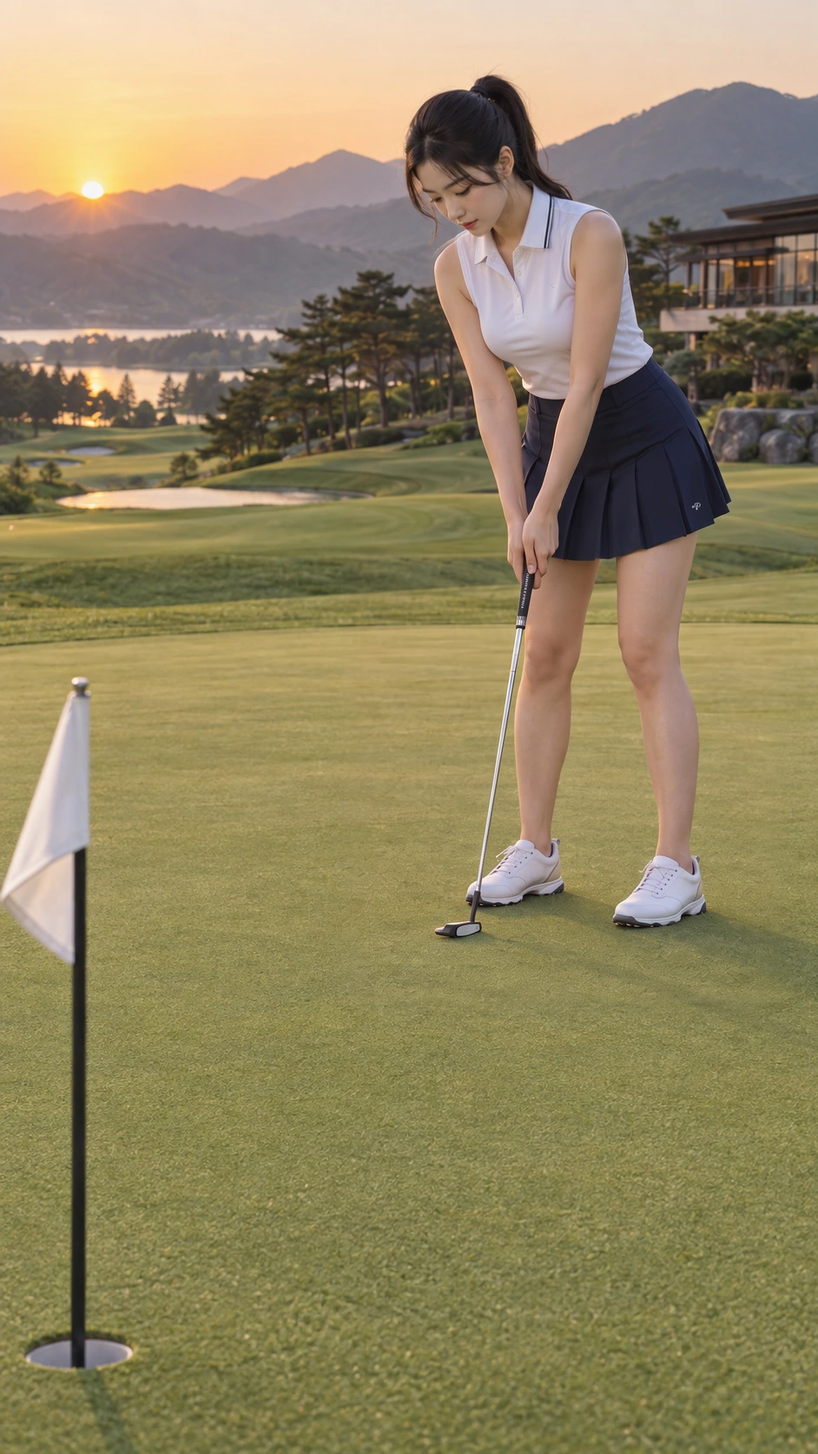
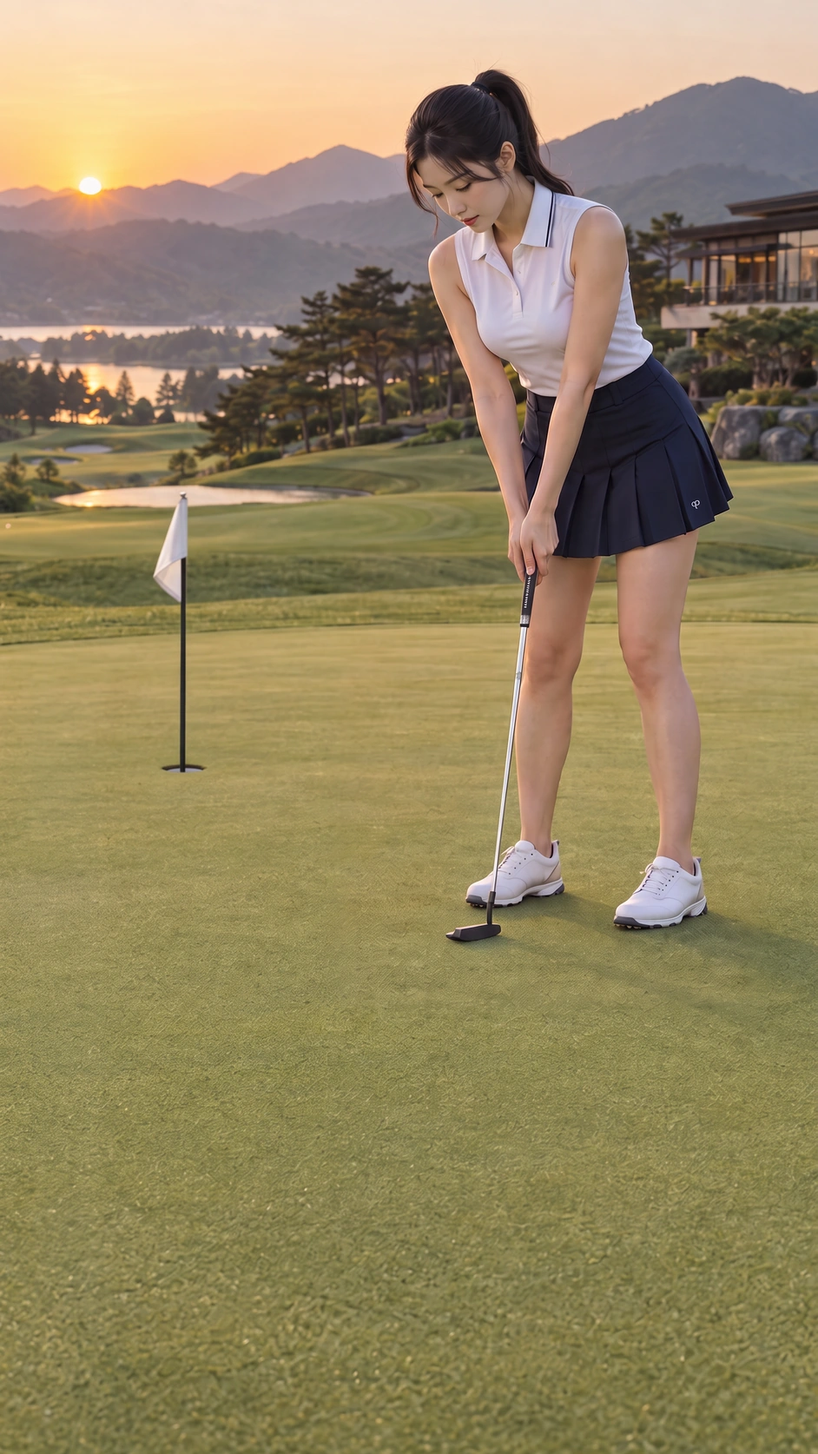
설아 퍼팅 화면에서 공·홀컵을 빼고 스트로크 동작만 남김
퍼터 조준이 이미지와 맞지 않는다는 지적을 받았다. 확인 결과 생성 모델이 이
구도에서 퍼터 헤드를 항상 타깃 라인과 나란히 눕혀 그린다. 즉 페이스가 홀이
아니라 카메라를 본다. 헤드를 90도 돌리라고 명시해도 어드레스·백스트로크·
임팩트·팔로스루 어느 프레임에서도 바뀌지 않았다.

그 상태로 공을 홀까지 굴리면 조준과 궤적이 서로 어긋나 보인다. 사장 결정에
따라 조준을 주장하는 요소만 뺐다.

- 공, 홀컵 링, 임팩트 링 엘리먼트와 관련 CSS·키프레임을 전부 제거했다.
- 게임 종료는 기존 5.2초 타이머가 그대로 담당한다(공 animationend 의존 제거).
- 스트로크 4프레임 연출과 단일 원본 합성 방식은 그대로 유지한다.
- 다시 살아나지 않도록 회귀 테스트를 넣고, 뺀 이유를 코드 주석에 남겼다.
- 모바일 판 교체: 기존 모바일 이미지는 홀컵이 그녀보다 카메라 쪽 전경에 있어
  퍼팅으로 도달할 수 없는 기하였다. 홀을 중거리로 옮긴 판으로 다시 만들고
  스트로크 3프레임도 새 판 기준으로 다시 합성했다.

검증: 테스트 246/246, npm run check / verify / build, git diff --check 통과.
데스크톱 1440x900 / 모바일 390x844 실제 렌더에서 스트로크 8개 시점을 캡처해
프레임 일관성과 공·홀컵 미표시를 확인했다.

Claude-Session: https://claude.ai/code/session_01VnX5TFHJLBetQ4Zg5eutzr

diff --git a/frontend/components/persona/SeolaGolfEntry.tsx b/frontend/components/persona/SeolaGolfEntry.tsx
@@ -1,6 +1,5 @@
 import React, { useEffect, useState } from 'react';
 import type { PersonaEntryGuide } from '../PersonaEntrySheet';
-
 interface Props { guide: PersonaEntryGuide; onClose: () => void; onStart: (featureKey?: string) => void; onFeature: (featureKey: string) => void; onInvite: () => void; }
 type SampleKey = 'driver' | 'iron' | 'tempo';
 type PuttPhase = 'ready' | 'playing' | 'success';
@@ -10,17 +9,12 @@ const SAMPLES = {
     tempo: { title: '서두르지 않는 나만의 템포', sub: '백스윙과 전환의 리듬을 맞추는 노트', values: [80, 75, 62, 73, 79], coach: '전환에서 바로 힘을 쓰지 말고 하나를 세고 내려오는 리듬을 만들어 보세요.' },
 } as const;
 const LABELS = ['어드레스', '백스윙', '다운스윙', '임팩트', '피니시'];
-
 const CSS = `
 .sg-root{--night:#071821;--green:#1f5243;--mint:#91c9b0;--gold:#e0bd6d;--paper:#f5f1e8;--wine:#b65f62;--ink:#132b31;position:fixed;inset:0;z-index:85;overflow-y:auto;overflow-x:hidden;background:var(--night);color:#fff;font-family:Pretendard,"Apple SD Gothic Neo","Noto Sans KR",sans-serif}.sg-root *{box-sizing:border-box}.sg-root button{font:inherit;cursor:pointer;touch-action:manipulation}.sg-scene{position:absolute;inset:0;width:100%;height:100%}.sg-scene img{width:100%;height:100%;display:block;object-fit:cover}.sg-hero{min-height:min(900px,100svh);position:relative;display:flex;align-items:flex-end;overflow:hidden;background:#06141d}.sg-hero:after{content:"";position:absolute;inset:0;background:linear-gradient(90deg,rgba(4,17,24,.88),rgba(4,17,24,.28) 48%,transparent 72%),linear-gradient(0deg,rgba(4,17,24,.86),transparent 50%);pointer-events:none}.sg-top{position:absolute;z-index:4;top:0;left:0;right:0;display:flex;align-items:center;justify-content:space-between;padding:20px clamp(20px,5vw,72px)}.sg-brand{display:flex;align-items:center;gap:10px;font:15px Georgia,"Noto Serif KR",serif;text-shadow:0 2px 10px #000}.sg-mark{width:31px;height:31px;border:1px solid #ffffffaa;border-radius:50%;position:relative}.sg-mark:after{content:'•••';position:absolute;inset:2px 0 0;text-align:center;color:var(--gold);font-size:9px;writing-mode:vertical-rl}.sg-close{width:44px;height:44px;border-radius:50%;border:1px solid #ffffff50;background:#0311189c;color:#fff;font-size:20px}.sg-copy{position:relative;z-index:3;margin:0 0 clamp(30px,5vh,54px) clamp(20px,6vw,86px);width:min(650px,calc(100% - 40px))}.sg-eyebrow,.sg-kicker{font-size:11px;font-weight:800;letter-spacing:.14em}.sg-eyebrow{display:flex;align-items:center;gap:12px;color:#edf4f1}.sg-eyebrow:before{content:'';width:38px;border-top:1px solid var(--gold)}.sg-copy h1{font:500 clamp(39px,5.3vw,68px)/1.04 Georgia,"Noto Serif KR",serif;letter-spacing:-.04em;margin:12px 0}.sg-gold{color:var(--gold)}.sg-lead{max-width:45ch;color:#e1e9e6;font-size:clamp(14px,1.5vw,18px);line-height:1.65;margin:0}.sg-lead strong{color:#fff}.sg-actions{display:flex;gap:9px;flex-wrap:wrap;margin-top:19px}.sg-primary,.sg-secondary{min-height:48px;padding:0 19px;border-radius:3px;font-weight:800}.sg-primary{border:0;background:var(--paper);color:var(--ink)}.sg-secondary{border:1px solid #ffffff70;background:#0311189c;color:#fff}.sg-note{margin-top:10px;color:#bfceca;font-size:10px}
-.sg-game{position:fixed;inset:0;z-index:10;display:grid;place-items:center;padding:20px;background:rgba(1,9,13,.88);backdrop-filter:blur(12px);animation:sg-game-in .28s ease-out}.sg-game-shell{width:min(1180px,100%);border:1px solid #ffffff35;border-radius:14px;overflow:hidden;background:#06141d;box-shadow:0 34px 100px #000b}.sg-game-hud{height:54px;display:flex;align-items:center;justify-content:space-between;padding:0 18px;color:#dce8e4}.sg-game-hud strong{font:600 15px Georgia,"Noto Serif KR",serif}.sg-game-hud span{color:var(--gold);font-size:11px;font-weight:800;letter-spacing:.14em}.sg-game-stage{position:relative;width:100%;aspect-ratio:1672/936;overflow:hidden}.sg-game-stage .sg-scene{position:absolute}.sg-game-stage:after{content:"";position:absolute;inset:0;box-shadow:inset 0 0 80px #00101880;pointer-events:none}.sg-game-ball{position:absolute;z-index:3;left:59.2%;top:81.8%;width:13px;height:13px;border-radius:50%;background:radial-gradient(circle at 35% 28%,#fff 0 30%,#d9ddda 65%,#828b86);box-shadow:0 3px 8px #0008;animation:sg-game-roll 4.8s cubic-bezier(.22,.58,.28,1) forwards}.sg-game-cup{position:absolute;z-index:3;left:28.1%;top:84.4%;width:26px;height:9px;border:2px solid rgba(255,247,202,.9);border-radius:50%;transform:translate(-50%,-50%);opacity:0;animation:sg-cup-ring 4.8s ease-out forwards}.sg-game-footer{height:58px;display:flex;align-items:center;justify-content:space-between;padding:0 18px;color:#dce8e4;font-size:12px}.sg-game-meter{display:flex;align-items:center;gap:9px}.sg-game-meter i{display:block;width:120px;height:4px;background:linear-gradient(90deg,var(--mint) 70%,#ffffff28 70%);border-radius:3px}.sg-skip{border:1px solid #ffffff65;background:transparent;color:#fff;border-radius:20px;padding:8px 14px;font-size:11px}.sg-sr{position:absolute;width:1px;height:1px;overflow:hidden;clip:rect(0,0,0,0)}@keyframes sg-game-in{from{opacity:0;transform:scale(.985)}to{opacity:1;transform:scale(1)}}@keyframes sg-game-roll{0%,18%{left:59.2%;top:81.8%;transform:rotate(0);opacity:1}80%{left:28.1%;top:84.4%;transform:rotate(-1080deg);opacity:1}83%,100%{left:28.1%;top:84.4%;transform:rotate(-1080deg) scale(.08);opacity:0}}@keyframes sg-cup-ring{0%,78%{opacity:0;transform:translate(-50%,-50%) scale(.4)}82%{opacity:1;transform:translate(-50%,-50%) scale(1)}100%{opacity:0;transform:translate(-50%,-50%) scale(2)}}
+.sg-game{position:fixed;inset:0;z-index:10;display:grid;place-items:center;padding:20px;background:rgba(1,9,13,.88);backdrop-filter:blur(12px);animation:sg-game-in .28s ease-out}.sg-game-shell{width:min(1180px,100%);border:1px solid #ffffff35;border-radius:14px;overflow:hidden;background:#06141d;box-shadow:0 34px 100px #000b}.sg-game-hud{height:54px;display:flex;align-items:center;justify-content:space-between;padding:0 18px;color:#dce8e4}.sg-game-hud strong{font:600 15px Georgia,"Noto Serif KR",serif}.sg-game-hud span{color:var(--gold);font-size:11px;font-weight:800;letter-spacing:.14em}.sg-game-stage{position:relative;width:100%;aspect-ratio:1672/936;overflow:hidden}.sg-game-stage .sg-scene{position:absolute}.sg-game-stage:after{content:"";position:absolute;inset:0;box-shadow:inset 0 0 80px #00101880;pointer-events:none}.sg-game-footer{height:58px;display:flex;align-items:center;justify-content:space-between;padding:0 18px;color:#dce8e4;font-size:12px}.sg-game-meter{display:flex;align-items:center;gap:9px}.sg-game-meter i{display:block;width:120px;height:4px;background:linear-gradient(90deg,var(--mint) 70%,#ffffff28 70%);border-radius:3px}.sg-skip{border:1px solid #ffffff65;background:transparent;color:#fff;border-radius:20px;padding:8px 14px;font-size:11px}.sg-sr{position:absolute;width:1px;height:1px;overflow:hidden;clip:rect(0,0,0,0)}@keyframes sg-game-in{from{opacity:0;transform:scale(.985)}to{opacity:1;transform:scale(1)}}
 .sg-choose{background:var(--paper);color:var(--ink);padding:clamp(64px,9vw,110px) clamp(20px,7vw,104px)}.sg-head{max-width:1180px;margin:auto;display:grid;grid-template-columns:.85fr 1.15fr;gap:52px;align-items:end}.sg-kicker{color:#477060}.sg-head h2,.sg-desk-copy h2{font:500 clamp(34px,4.5vw,56px)/1.2 Georgia,"Noto Serif KR",serif;margin:13px 0 0}.sg-head p,.sg-desk-copy p{color:#586a68;line-height:1.8;font-size:14px}.sg-paths{max-width:1180px;margin:54px auto 0;display:grid;grid-template-columns:1fr 1fr;border-top:1px solid #c9c6ba}.sg-path{padding:34px 38px 28px 0}.sg-path+.sg-path{padding-left:38px;border-left:1px solid #d5d1c5}.sg-num{font:italic 21px Georgia,serif;color:var(--wine)}.sg-path h3{font:600 clamp(24px,3vw,34px) Georgia,"Noto Serif KR",serif;margin:34px 0 12px}.sg-path p{font-size:13px;line-height:1.75;color:#60706e}.sg-chips{display:flex;gap:8px;flex-wrap:wrap;margin:22px 0}.sg-chip{font-size:10px;font-weight:800;padding:7px 9px;border:1px solid #b8c8c0;color:#315c4d;border-radius:20px}.sg-path button{border:0;background:var(--green);color:#fff;padding:13px 17px;border-radius:3px;font-weight:800}.sg-desk{background:#102c2d;padding:clamp(64px,9vw,108px) clamp(20px,7vw,104px)}.sg-desk-inner{max-width:1180px;margin:auto;display:grid;grid-template-columns:.78fr 1.22fr;gap:clamp(40px,8vw,100px)}.sg-desk-copy{position:sticky;top:34px}.sg-desk-copy .sg-kicker{color:var(--mint)}.sg-desk-copy p{color:#b7c9c4}.sg-toggles{display:flex;gap:8px;margin-top:24px}.sg-toggle{border:1px solid #ffffff3d;background:transparent;color:#dce8e4;padding:10px 13px;border-radius:3px}.sg-toggle[aria-pressed=true]{background:var(--mint);border-color:var(--mint);color:#0a2727;font-weight:800}.sg-report{background:var(--paper);color:var(--ink);border-radius:5px;padding:clamp(26px,5vw,52px);box-shadow:0 28px 80px #0005;min-height:520px}.sg-sample{font-size:10px;font-weight:800;color:var(--wine)}.sg-report h3{font:500 clamp(27px,4vw,42px)/1.25 Georgia,"Noto Serif KR",serif;margin:24px 0 6px}.sg-sub{font-size:12px;color:#6d7a77;margin-bottom:30px}.sg-metrics{border-top:1px solid #c9c9bf}.sg-metric{display:grid;grid-template-columns:50px 1fr 120px;gap:15px;align-items:center;padding:17px 0;border-bottom:1px solid #d8d6cc}.sg-metric b{font:italic 17px Georgia,serif;color:var(--wine)}.sg-bar{height:4px;background:#d8d9d1}.sg-bar i{display:block;height:100%;background:var(--green)}.sg-coach{margin-top:28px;padding:19px;border-left:3px solid var(--gold);background:#ebe8df;color:#536461;font-size:12px;line-height:1.75}.sg-disclosure{margin-top:17px;color:#7c8783;font-size:10px;line-height:1.6}.sg-root :focus-visible{outline:3px solid #f3d480;outline-offset:3px}
-@media(max-width:760px){.sg-hero{min-height:auto;padding-top:72svh;display:block;background:#071821}.sg-hero .sg-scene{height:72svh}.sg-hero:after{height:72svh;background:linear-gradient(0deg,#071821,transparent 36%)}.sg-top{padding:16px}.sg-brand span:last-child{display:none}.sg-copy{margin:0;padding:18px 20px 30px;width:auto;background:#071821}.sg-copy h1{font-size:39px}.sg-lead{font-size:14px}.sg-actions>*{flex:1 1 100%}.sg-game{padding:10px}.sg-game-shell{width:auto;max-width:100%;border-radius:11px}.sg-game-hud{height:48px}.sg-game-stage{height:min(72svh,680px);width:auto;aspect-ratio:942/1674}.sg-game-ball{left:52.4%;top:70.4%;animation-name:sg-game-roll-mobile}.sg-game-cup{left:11.1%;top:73.5%}.sg-game-footer{height:54px}.sg-game-meter i{width:72px}@keyframes sg-game-roll-mobile{0%,18%{left:52.4%;top:70.4%;transform:rotate(0);opacity:1}80%{left:11.1%;top:73.5%;transform:rotate(-1080deg);opacity:1}83%,100%{left:11.1%;top:73.5%;transform:rotate(-1080deg) scale(.08);opacity:0}}.sg-head,.sg-desk-inner{grid-template-columns:1fr}.sg-paths{grid-template-columns:1fr}.sg-path,.sg-path+.sg-path{padding:28px 0;border-left:0;border-bottom:1px solid #d5d1c5}.sg-path:last-child{border-bottom:0}.sg-path h3{margin:18px 0 10px}.sg-desk-copy{position:static}.sg-report{min-height:0}.sg-metric{grid-template-columns:42px 1fr}.sg-bar{grid-column:2;width:100%}}
-@media(prefers-reduced-motion:reduce){.sg-game-ball,.sg-game-cup{animation-duration:.01ms}.sg-root{scroll-behavior:auto}}
-.sg-game-ball{margin:-6.5px 0 0 -6.5px}
-.sg-impact-scene{opacity:0;animation:sg-impact-frame 4.8s steps(1,end) forwards}.sg-impact-pop{position:absolute;z-index:4;left:59.2%;top:81.8%;width:38px;height:38px;border:2px solid #fff3b0;border-radius:50%;transform:translate(-50%,-50%) scale(.25);opacity:0;animation:sg-impact-pop 4.8s ease-out forwards}@keyframes sg-impact-frame{0%,15%{opacity:0}16%,100%{opacity:1}}@keyframes sg-impact-pop{0%,15%{opacity:0;transform:translate(-50%,-50%) scale(.25)}17%{opacity:.95;transform:translate(-50%,-50%) scale(.55)}25%,100%{opacity:0;transform:translate(-50%,-50%) scale(1.5)}}@media(max-width:760px){.sg-impact-pop{left:52.4%;top:70.4%}}@media(prefers-reduced-motion:reduce){.sg-impact-scene,.sg-impact-pop{animation-duration:.01ms}}
+@media(max-width:760px){.sg-hero{min-height:auto;padding-top:72svh;display:block;background:#071821}.sg-hero .sg-scene{height:72svh}.sg-hero:after{height:72svh;background:linear-gradient(0deg,#071821,transparent 36%)}.sg-top{padding:16px}.sg-brand span:last-child{display:none}.sg-copy{margin:0;padding:18px 20px 30px;width:auto;background:#071821}.sg-copy h1{font-size:39px}.sg-lead{font-size:14px}.sg-actions>*{flex:1 1 100%}.sg-game{padding:10px}.sg-game-shell{width:auto;max-width:100%;border-radius:11px}.sg-game-hud{height:48px}.sg-game-stage{height:min(72svh,680px);width:auto;aspect-ratio:942/1674}.sg-game-footer{height:54px}.sg-game-meter i{width:72px}.sg-head,.sg-desk-inner{grid-template-columns:1fr}.sg-paths{grid-template-columns:1fr}.sg-path,.sg-path+.sg-path{padding:28px 0;border-left:0;border-bottom:1px solid #d5d1c5}.sg-path:last-child{border-bottom:0}.sg-path h3{margin:18px 0 10px}.sg-desk-copy{position:static}.sg-report{min-height:0}.sg-metric{grid-template-columns:42px 1fr}.sg-bar{grid-column:2;width:100%}}
 `;
-
 /*
  * v6 퍼팅 스트로크
  * 프레임 4장은 전부 같은 어드레스 원본 한 장을 판으로 쓰고, 팔·손·어깨·퍼터 영역만
@@ -29,26 +23,25 @@ const CSS = `
  *
  * 4.8초 한 주기 안의 스트로크 타임라인(리디아고 퍼팅 기본기 기준 — 머리 고정, 손목 고정,
  * 어깨 진자, 손이 헤드보다 앞):
- *   0.00~0.43s 어드레스 / 0.46~0.99s 백스트로크(천천히) / 1.02s 임팩트·공 출발
+ *   0.00~0.43s 어드레스 / 0.46~0.99s 백스트로크(천천히) / 1.02s 임팩트
  *   1.06~1.18s 임팩트 직후 / 1.21~1.83s 낮은 팔로스루 / 1.87~2.10s 되돌아오는 길
  *   2.13s~ 어드레스 복귀
  * ★레이어 순서는 어드레스 < back < thru < follow. 위 레이어가 사라지기 전에 아래
- *   레이어가 먼저 불투명해지도록 짜서, 교차구간에 그림자가 세 겹으로 겹치지 않는다.
- * 공 출발점과 홀컵 좌표는 두 이미지에서 실제 픽셀을 재서 넣은 값이다.
+ *   레이어가 먼저 불투명해지도록 짜서, 교차구간에 상이 세 겹으로 겹치지 않는다.
+ *
+ * ★공과 홀컵 마커는 그리지 않는다(2026-09-18 사장 지시). 생성 모델이 이 구도에서
+ *   퍼터 헤드를 항상 타깃 라인과 나란히 눕혀 그려 페이스가 홀이 아니라 카메라를 본다.
+ *   그 상태로 공을 홀까지 굴리면 조준과 궤적이 어긋나 보이므로, 조준을 주장하지 않는
+ *   스트로크 동작만 남겼다. 퍼터가 제대로 조준된 소재를 확보하기 전에는 되살리지 말 것.
  */
 const MOTION_CSS = `
-.sg-game-ball{left:64.1%;top:86%;width:1%;height:auto;aspect-ratio:1;margin:0;transform:translate(-50%,-50%);animation-name:sg-roll-v6}.sg-game-cup{left:9.4%;top:68.4%;width:3.4%;height:.9%}.sg-impact-pop{left:64.1%;top:86%;width:1.8%;height:auto;aspect-ratio:1;animation-name:sg-impact-v6}.sg-stroke{position:absolute;inset:0;opacity:0;animation-duration:4.8s;animation-timing-function:linear;animation-fill-mode:forwards}.sg-stroke-back{animation-name:sg-stroke-back}.sg-stroke-thru{animation-name:sg-stroke-thru}.sg-stroke-follow{animation-name:sg-stroke-follow}
+.sg-stroke{position:absolute;inset:0;opacity:0;animation-duration:4.8s;animation-timing-function:linear;animation-fill-mode:forwards}.sg-stroke-back{animation-name:sg-stroke-back}.sg-stroke-thru{animation-name:sg-stroke-thru}.sg-stroke-follow{animation-name:sg-stroke-follow}
 @keyframes sg-stroke-back{0%,8.9%{opacity:0}9.6%,20.6%{opacity:1}21.3%,100%{opacity:0}}
 @keyframes sg-stroke-thru{0%,21.3%{opacity:0}22%,25.3%{opacity:1}26%,37.2%{opacity:0}37.9%,43.7%{opacity:1}44.4%,100%{opacity:0}}
 @keyframes sg-stroke-follow{0%,24.6%{opacity:0}25.3%,38.2%{opacity:1}38.9%,100%{opacity:0}}
-@keyframes sg-roll-v6{0%,21.3%{left:64.1%;top:86%;transform:translate(-50%,-50%) rotate(0);opacity:1}80%{left:9.4%;top:68.4%;transform:translate(-50%,-50%) rotate(-1080deg);opacity:1}83%,100%{left:9.4%;top:68.4%;transform:translate(-50%,-50%) rotate(-1080deg) scale(.08);opacity:0}}
-@keyframes sg-impact-v6{0%,21.3%{opacity:0;transform:translate(-50%,-50%) scale(.25)}22.5%{opacity:.85;transform:translate(-50%,-50%) scale(.7)}27%,100%{opacity:0;transform:translate(-50%,-50%) scale(1.7)}}
-@media(max-width:760px){.sg-game-ball{left:51.3%;top:63.9%;width:2.4%;animation-name:sg-roll-mobile-v6}.sg-game-cup{left:9.8%;top:93%;width:13.3%;height:2.7%}.sg-impact-pop{left:51.3%;top:63.9%;width:4.4%}@keyframes sg-roll-mobile-v6{0%,21.3%{left:51.3%;top:63.9%;transform:translate(-50%,-50%) rotate(0);opacity:1}80%{left:9.8%;top:93%;transform:translate(-50%,-50%) rotate(-1080deg);opacity:1}83%,100%{left:9.8%;top:93%;transform:translate(-50%,-50%) rotate(-1080deg) scale(.08);opacity:0}}}
-@media(prefers-reduced-motion:reduce){.sg-stroke{animation-duration:.01ms}}
+@media(prefers-reduced-motion:reduce){.sg-stroke{animation-duration:.01ms}.sg-root{scroll-behavior:auto}}
 `;
-
 const ResponsiveScene: React.FC<{ mobile: string; desktop: string; alt: string }> = ({ mobile, desktop, alt }) => <picture className="sg-scene"><source media="(max-width: 760px)" srcSet={mobile} /><img src={desktop} alt={alt} /></picture>;
-
 export const SeolaGolfEntry: React.FC<Props> = ({ guide, onClose, onStart, onFeature }) => {
     const [sampleKey, setSampleKey] = useState<SampleKey>('driver');
     const [puttPhase, setPuttPhase] = useState<PuttPhase>('ready');
@@ -64,10 +57,9 @@ export const SeolaGolfEntry: React.FC<Props> = ({ guide, onClose, onStart, onFea
         const finish = window.setTimeout(() => setPuttPhase('success'), 5200);
         return () => window.clearTimeout(finish);
     }, [puttPhase]);
-
     return <div className="sg-root" role="dialog" aria-modal="true" aria-label={`${guide.title} 골프 코칭`}><style>{CSS + MOTION_CSS}</style>
         <section className="sg-hero" aria-labelledby="seola-title"><ResponsiveScene mobile={puttPhase === 'success' ? '/seola/celebrate-mobile-v3.png' : '/seola/putt-address-mobile-v6.webp'} desktop={puttPhase === 'success' ? '/seola/celebrate-desktop-v3.png' : '/seola/putt-address-desktop-v6.webp'} alt={puttPhase === 'success' ? '퍼팅에 성공해 기뻐하는 설아' : '정석 어드레스로 퍼팅을 준비하는 설아'} /><header className="sg-top"><div className="sg-brand"><span className="sg-mark" aria-hidden="true" /><span>설아의 새벽 티하우스</span></div><button className="sg-close" type="button" aria-label="닫기" onClick={onClose}>×</button></header><div className="sg-copy"><div className="sg-eyebrow">AI GOLF COACH · COURSE GUIDE</div><h1 id="seola-title">감이 아니라,<br /><span className="sg-gold">나의 리듬으로</span></h1><p className="sg-lead">스윙 영상 한 번이면 충분해요. <strong>설아 코치</strong>가 움직임을 차분히 읽고, 오늘의 코스까지 함께 준비합니다.</p><div className="sg-actions"><button className="sg-primary" type="button" onClick={() => onFeature('swing')}>내 스윙 점검하기</button><button className="sg-secondary" type="button" onClick={() => onFeature('golf-course')}>오늘의 코스 찾기</button><button className="sg-secondary" type="button" onClick={() => onStart()}>설아와 대화하기</button></div><div className="sg-note">분석은 영상을 올리고 시작을 선택한 뒤에만 진행됩니다.</div></div></section>
-        {puttPhase === 'playing' && <div className="sg-game" role="dialog" aria-modal="true" aria-label="설아의 퍼팅 게임"><div className="sg-game-shell"><div className="sg-game-hud"><strong>설아의 퍼팅 라인</strong><span>PUTT · 2.8 M</span></div><div className="sg-game-stage"><ResponsiveScene mobile="/seola/putt-address-mobile-v6.webp" desktop="/seola/putt-address-desktop-v6.webp" alt="홀을 향해 어드레스를 잡은 설아" /><picture className="sg-scene sg-stroke sg-stroke-back"><source media="(max-width: 760px)" srcSet="/seola/putt-back-mobile-v6.webp" /><img src="/seola/putt-back-desktop-v6.webp" alt="어깨를 함께 돌려 퍼터를 낮게 뒤로 빼는 설아" /></picture><picture className="sg-scene sg-stroke sg-stroke-thru"><source media="(max-width: 760px)" srcSet="/seola/putt-thru-mobile-v6.webp" /><img src="/seola/putt-thru-desktop-v6.webp" alt="손이 헤드보다 앞선 채 공을 지나가는 설아" /></picture><picture className="sg-scene sg-stroke sg-stroke-follow"><source media="(max-width: 760px)" srcSet="/seola/putt-follow-mobile-v6.webp" /><img src="/seola/putt-follow-desktop-v6.webp" alt="퍼터를 낮게 홀 쪽으로 밀어내는 설아" /></picture><span className="sg-impact-pop" aria-hidden="true" /><span className="sg-game-ball" aria-hidden="true" onAnimationEnd={() => setPuttPhase('success')} /><span className="sg-game-cup" aria-hidden="true" /></div><div className="sg-game-footer"><div className="sg-game-meter"><span>거리감</span><i aria-hidden="true" /><strong>좋음</strong></div><button className="sg-skip" type="button" onClick={() => setPuttPhase('success')}>건너뛰기</button></div></div><div className="sg-sr" aria-live="polite">머리는 고정한 채 어깨와 팔이 함께 뒤로 갔다가, 손이 헤드보다 앞선 상태로 퍼터가 공을 낮게 통과하고, 공이 홀컵 중심을 향해 굴러갑니다.</div></div>}
+        {puttPhase === 'playing' && <div className="sg-game" role="dialog" aria-modal="true" aria-label="설아의 퍼팅 게임"><div className="sg-game-shell"><div className="sg-game-hud"><strong>설아의 퍼팅 라인</strong><span>PUTT · 2.8 M</span></div><div className="sg-game-stage"><ResponsiveScene mobile="/seola/putt-address-mobile-v6.webp" desktop="/seola/putt-address-desktop-v6.webp" alt="홀을 향해 어드레스를 잡은 설아" /><picture className="sg-scene sg-stroke sg-stroke-back"><source media="(max-width: 760px)" srcSet="/seola/putt-back-mobile-v6.webp" /><img src="/seola/putt-back-desktop-v6.webp" alt="어깨를 함께 돌려 퍼터를 낮게 뒤로 빼는 설아" /></picture><picture className="sg-scene sg-stroke sg-stroke-thru"><source media="(max-width: 760px)" srcSet="/seola/putt-thru-mobile-v6.webp" /><img src="/seola/putt-thru-desktop-v6.webp" alt="손이 헤드보다 앞선 채 공을 지나가는 설아" /></picture><picture className="sg-scene sg-stroke sg-stroke-follow"><source media="(max-width: 760px)" srcSet="/seola/putt-follow-mobile-v6.webp" /><img src="/seola/putt-follow-desktop-v6.webp" alt="퍼터를 낮게 홀 쪽으로 밀어내는 설아" /></picture></div><div className="sg-game-footer"><div className="sg-game-meter"><span>거리감</span><i aria-hidden="true" /><strong>좋음</strong></div><button className="sg-skip" type="button" onClick={() => setPuttPhase('success')}>건너뛰기</button></div></div><div className="sg-sr" aria-live="polite">머리는 고정한 채 어깨와 팔이 함께 뒤로 갔다가, 손이 헤드보다 앞선 상태로 퍼터가 낮게 지나가며 퍼팅 스트로크를 마칩니다.</div></div>}
         <section className="sg-choose" aria-labelledby="seola-path-title"><div className="sg-head"><div><div className="sg-kicker">CHOOSE YOUR ROUND</div><h2 id="seola-path-title">연습도 라운드도,<br />한 흐름으로</h2></div><p>좋은 라운드는 내 움직임을 이해하는 데서 시작합니다. 먼저 스윙을 점검해도 좋고, 오늘 갈 코스를 찾아도 괜찮습니다.</p></div><div className="sg-paths"><article className="sg-path"><div className="sg-num">01</div><h3>스윙 분석</h3><p>영상을 올리면 어드레스부터 피니시까지 다섯 구간을 나눠 보고, 지금 고칠 한 가지를 먼저 짚습니다.</p><div className="sg-chips"><span className="sg-chip">영상 업로드</span><span className="sg-chip">5구간 점검</span><span className="sg-chip">연습 포인트</span></div><button type="button" onClick={() => onFeature('swing')}>스윙 분석 시작 →</button></article><article className="sg-path"><div className="sg-num">02</div><h3>내 주변 골프장</h3><p>현재 위치나 지역으로 실제 골프장을 찾고, 확인 가능한 정보 안에서 코스 특징과 공략 포인트를 브리핑합니다.</p><div className="sg-chips"><span className="sg-chip">거리순 탐색</span><span className="sg-chip">코스 브리핑</span><span className="sg-chip">후기·예약처 연결</span></div><button type="button" onClick={() => onFeature('golf-course')}>코스 찾아보기 →</button></article></div></section>
         <section className="sg-desk" aria-labelledby="seola-note-title"><div className="sg-desk-inner"><div className="sg-desk-copy"><div className="sg-kicker">[예시] COACHING NOTE</div><h2 id="seola-note-title">설아는 이렇게<br />읽어드려요</h2><p>분석 결과가 어떤 형태로 정리되는지 먼저 살펴보세요. 아래 수치와 문구는 화면 구성을 위한 예시입니다.</p><div className="sg-toggles" role="group" aria-label="예시 스윙 선택">{([['driver','드라이버'],['iron','아이언'],['tempo','템포']] as [SampleKey,string][]).map(([key,label]) => <button key={key} className="sg-toggle" type="button" aria-pressed={sampleKey===key} onClick={() => setSampleKey(key)}>{label}</button>)}</div></div><article className="sg-report" aria-live="polite"><div className="sg-sample">[예시] SWING REVIEW</div><h3>{sample.title}</h3><div className="sg-sub">{sample.sub}</div><div className="sg-metrics">{LABELS.map((label,index)=><div className="sg-metric" key={label}><b>0{index+1}</b><strong>{label}</strong><span className="sg-bar" aria-label={`예시 ${label} ${sample.values[index]}`}><i style={{width:`${sample.values[index]}%`}} /></span></div>)}</div><div className="sg-coach">“{sample.coach}”</div><div className="sg-disclosure">이 내용은 화면 구성을 보여주기 위한 예시이며 실제 영상 분석 결과가 아닙니다. 사용자의 영상은 명시적인 분석 시작 전에는 처리되지 않습니다.</div></article></div></section>
     </div>;

diff --git a/frontend/components/persona/SeolaGolfEntry.test.tsx b/frontend/components/persona/SeolaGolfEntry.test.tsx
@@ -55,6 +55,11 @@ describe('SeolaGolfEntry', () => {
             expect(document.querySelector(`img[src="/seola/putt-${phase}-desktop-v6.webp"]`)).toBeTruthy();
         }
         expect(document.querySelectorAll('.sg-game-stage .sg-stroke').length).toBe(3);
+        // ★공·홀컵 마커는 그리지 않는다 — 생성 이미지의 퍼터 페이스가 홀을 조준하지 않아
+        //   공을 홀까지 굴리면 조준과 궤적이 어긋난다(2026-09-18 사장 지시).
+        expect(document.querySelector('.sg-game-ball')).toBeNull();
+        expect(document.querySelector('.sg-game-cup')).toBeNull();
+        expect(document.querySelector('.sg-impact-pop')).toBeNull();
         act(() => vi.advanceTimersByTime(5200));
         expect(screen.queryByRole('dialog', { name: '설아의 퍼팅 게임' })).toBeNull();
         expect(screen.queryByRole('img', { name: '정석 어드레스로 퍼팅을 준비하는 설아' })).toBeNull();
